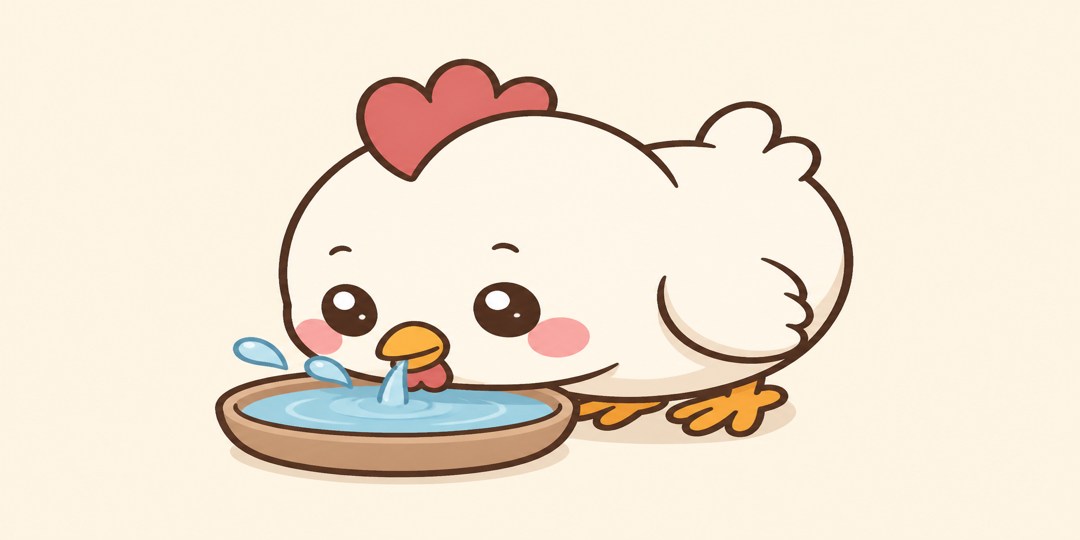
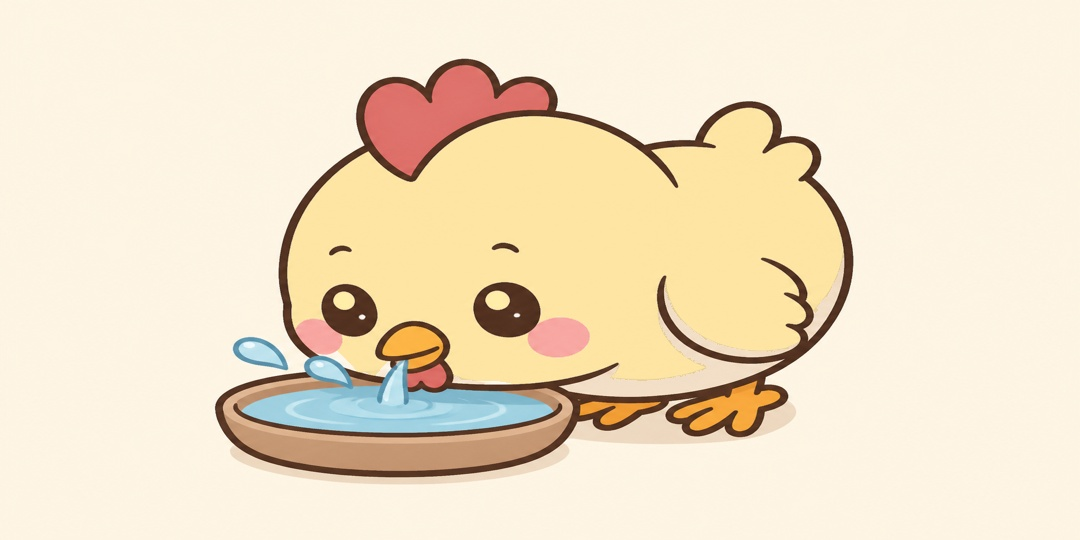
update

Changed region(s): [[0.2444, 0.1778, 0.7944, 0.7111]]

diff --git a/app1/game/src/data/questions.js b/app1/game/src/data/questions.js
@@ -304,23 +304,23 @@ export const questions = [
   },
   {
     id: 31,
-    type: '名詞',
+    type: '地名',
     difficulty: '難',
     hintImage: require('../../assets/pictures/31-1.jpg'),
     hintText: '一個人往西邊走',
     guessImage: require('../../assets/pictures/31-2.jpg'),
     answer: '毛澤東',
-    hint: '全身長毛改往東邊走 - 毛澤東',
+    hint: '全身長毛改往東邊走 - 毛則東',
   },
   {
     id: 32,
-    type: '名詞',
-    difficulty: '易',
+    type: '宜蘭',
+    difficulty: '中',
     hintImage: require('../../assets/pictures/32-1.jpg'),
-    hintText: '有紅白綠藍四個顏色方塊',
+    hintText: '有四個顏色',
     guessImage: require('../../assets/pictures/32-2.jpg'),
     answer: '宜蘭',
-    hint: '藍色方塊往下面移動',
+    hint: '藍色移動',
   },
   {
     id: 33,
@@ -330,11 +330,11 @@ export const questions = [
     hintText: '有一隻猩猩',
     guessImage: require('../../assets/pictures/33-2.jpg'),
     answer: '流星',
-    hint: '猩猩要走了被人叫住',
+    hint: '猩猩被人留住',
   },
   {
     id: 34,
-    type: '名詞',
+    type: '公司名',
     difficulty: '中',
     hintImage: require('../../assets/pictures/34-1.jpg'),
     hintText: '有一間店',
@@ -350,7 +350,7 @@ export const questions = [
     hintText: '有一個小丸子',
     guessImage: require('../../assets/pictures/35-2.jpg'),
     answer: '玩具',
-    hint: '很多小丸子',
+    hint: '小丸子聚在一起',
   },
   {
     id: 36,
@@ -360,7 +360,7 @@ export const questions = [
     hintText: '有一個寶寶',
     guessImage: require('../../assets/pictures/36-2.jpg'),
     answer: '寶特瓶',
-    hint: '一排成年人中間有個很平很扁的寶寶',
+    hint: '特別平的寶寶',
   },
   {
     id: 37,
@@ -380,7 +380,7 @@ export const questions = [
     hintText: '一隻雞',
     guessImage: require('../../assets/pictures/38-2.jpg'),
     answer: '飲水機',
-    hint: '雞在喝水',
+    hint: '雞在飲水',
   },
   {
     id: 39,
@@ -401,7 +401,7 @@ export const questions = [
     hintText: '這是一隻老鼠',
     guessImage: require('../../assets/pictures/40-2.jpg'),
     answer: '蕃薯',
-    hint: '老鼠被翻過來',
+    hint: '翻過來的老鼠',
   },
   {
     id: 41,
@@ -410,7 +410,7 @@ export const questions = [
     hintImage: require('../../assets/pictures/41-1.jpg'),
     hintText: '這是一個母親',
     guessImage: require('../../assets/pictures/41-2.jpg'),
-    answer: '保母',
+    answer: '保姆',
     hint: '孩子在保護母親',
   },
   {
@@ -441,7 +441,7 @@ export const questions = [
     hintText: '這是一個柚子',
     guessImage: require('../../assets/pictures/44-2.jpg'),
     answer: '欲言又止',
-    hint: '柚子是大預言師卻說不出口 - 欲言又止',
+    hint: '預言師柚子 - 欲言又止',
   },
   {
     id: 45,
@@ -471,6 +471,7 @@ export const questions = [
     hintText: '這是瘦子',
     guessImage: require('../../assets/pictures/47-2.jpg'),
     answer: '接受',
+    answers: ['接受', '拋售'],
     hint: '從樓上丟瘦子下來被接住',
   },
   {
